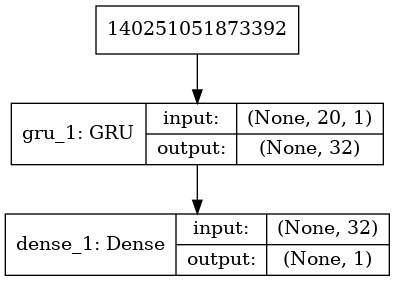
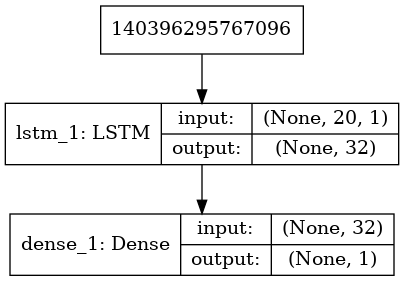
Normalise data based on properties of the whole data set

diff --git a/data_helper.py b/data_helper.py
@@ -7,12 +7,22 @@ def load_timeseries(filename, params):
     series = pd.read_csv(filename, sep=',', header=0, index_col=0, squeeze=True)
     data = series.values
 
+    # Note: we should be calculating normalisation parameters only based on test data
+    test_data_portion = data[round(params['train_test_split'] * len(data)):]
+    mean_v = np.mean(test_data_portion)
+    print(f'Mean: {mean_v}')
+    data =  [(x - mean_v) for x in data]
+
+    std_v = np.std(test_data_portion)
+    print(f'Std: {std_v}')
+    data =  [(x/std_v) for x in data]
+
     print(f'DEBUG: len(data): {len(data)}')
-    input('Press a key to continue...')
+    #input('Press a key to continue...')
 
     adjusted_window = params['window_size']+ 1
     print(f'DEBUG: adjusted_window: {adjusted_window}')
-    input('Press a key to continue...')
+    #input('Press a key to continue...')
 
 
     # Split data into windows
@@ -21,13 +31,13 @@ def load_timeseries(filename, params):
             raw.append(data[index: index + adjusted_window])
 
     print(f'DEBUG: len(raw): {len(raw)}')
-    input('Press a key to continue...')
+    #input('Press a key to continue...')
 
     # Normalize data
     result = normalize_windows(raw)
 
     print(f'DEBUG: len(result): {len(result)}')
-    input('Press a key to continue...')
+    #input('Press a key to continue...')
 
     raw = np.array(raw)
     result = np.array(result)
@@ -36,7 +46,7 @@ def load_timeseries(filename, params):
     split_ratio = round(params['train_test_split'] * result.shape[0])
 
     print(f'DEBUG: split_ratio: {split_ratio}')
-    input('Press a key to continue...')
+    #input('Press a key to continue...')
 
     train = result[:int(split_ratio), :]
     print(train)
@@ -79,7 +89,8 @@ def normalize_windows(window_data):
                     norm_factor = x
                     break
 
-        normalized_window = [((float(p) / norm_factor) - 1) for p in window]
+        #normalized_window = [((float(p) / norm_factor) - 1) for p in window]
+        normalized_window = window
         normalized_data.append(normalized_window)
 
     return normalized_data

diff --git a/train_predict.py b/train_predict.py
@@ -6,6 +6,7 @@ import numpy as np
 import pandas as pd
 import matplotlib.pyplot as plt
 import math
+from keras.callbacks import ModelCheckpoint
 
 def root_mean_squared_error(y_true, y_pred):
     return math.sqrt(sum(map(lambda a_b: pow(a_b[0] - a_b[1], 2) , zip(y_pred, y_true)))/y_true.__len__())
@@ -32,6 +33,9 @@ def train_predict():
     print(f'DEBUG: len(x_test): {len(x_test)}')
     print(f'DEBUG: len(y_test): {len(y_test)}')
 
+    weight_file = 'model_best_weights.h5'
+    checkpoint = ModelCheckpoint(weight_file, monitor='val_loss', verbose=1, save_best_only=True, mode='min', period=1)
+
     # Train RNN (LSTM) model with train set
     history = model.fit(
             x_train,
@@ -39,7 +43,10 @@ def train_predict():
             batch_size=params['batch_size'],
             epochs=params['epochs'],
             validation_split=params['validation_split'],
-            verbose=True)
+            verbose=True,
+            callbacks=[checkpoint])
+
+    model.load_weights(weight_file)
 
     loss = history.history['loss']
     val_loss = history.history['val_loss']
@@ -58,10 +65,13 @@ def train_predict():
     predicted = build_model.predict_next_timestamp(model, x_test)        
     predicted_raw = []
     for i in range(len(x_test_raw)):
-            predicted_raw.append((predicted[i] + 1) * x_test_raw[i][0])
+            predicted_raw.append(predicted[i])
 
     # Debug info
     print("DEBUG: Predicted test data:")
+    for e in predicted:
+        print(e)
+    print("DEBUG: Predicted (raw) test data:")
     for e in predicted_raw:
         print(e)
     print("DEBUG: Actual test data:")

diff --git a/build_model.py b/build_model.py
@@ -7,6 +7,7 @@ from keras.utils.vis_utils import plot_model
 from keras import layers
 from keras.optimizers import RMSprop
 
+
 def root_mean_squared_error(y_true, y_pred):
     return K.sqrt(K.mean(K.square(y_pred - y_true)))
 
@@ -22,17 +23,18 @@ def rnn_lstm(lstm_layer, params):
     model.add(Dense(output_dim=layers[3]))
     model.add(Activation("tanh"))
     '''
+
+
     model = Sequential()
-    model.add(layers.GRU(32,
+    model.add(layers.LSTM(32,
                 dropout=0.2,
                 recurrent_dropout=0.2,
                 input_shape=(lstm_layer[1], lstm_layer[0])))
     model.add(layers.Dense(1))
     model.compile(optimizer=RMSprop(), loss='mae')
 
-    plot_model(model, to_file='img/model_plot.png', show_shapes=True, show_layer_names=True)
-
-    model.compile(loss=root_mean_squared_error, optimizer="rmsprop", metrics =["accuracy"])
+    #plot_model(model, to_file='img/model_plot.png', show_shapes=True, show_layer_names=True)
+    #model.compile(loss=root_mean_squared_error, optimizer="rmsprop", metrics =["accuracy"])
     return model
 
 def predict_next_timestamp(model, history):
